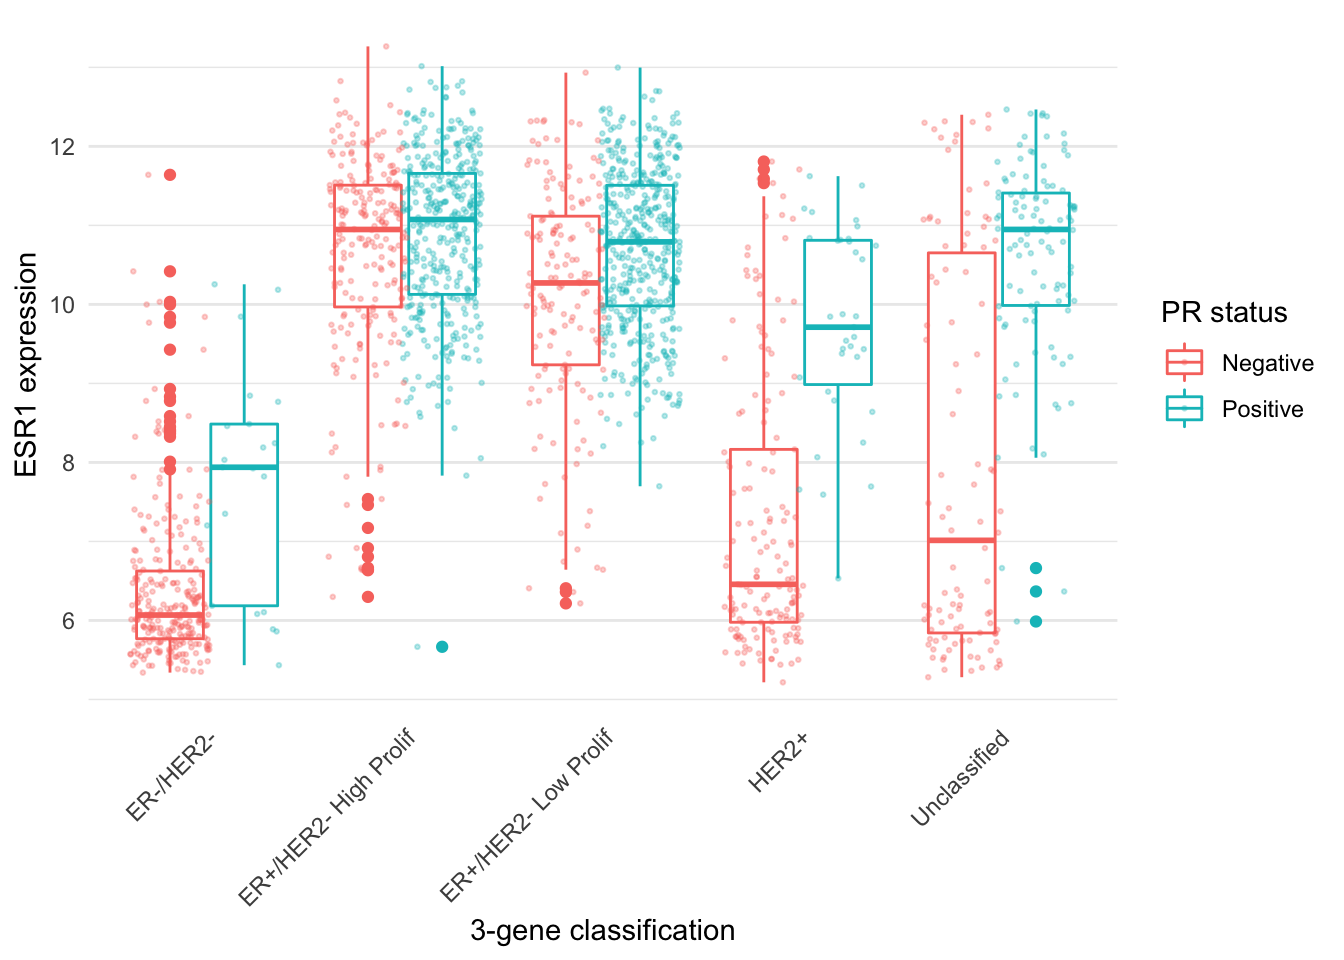
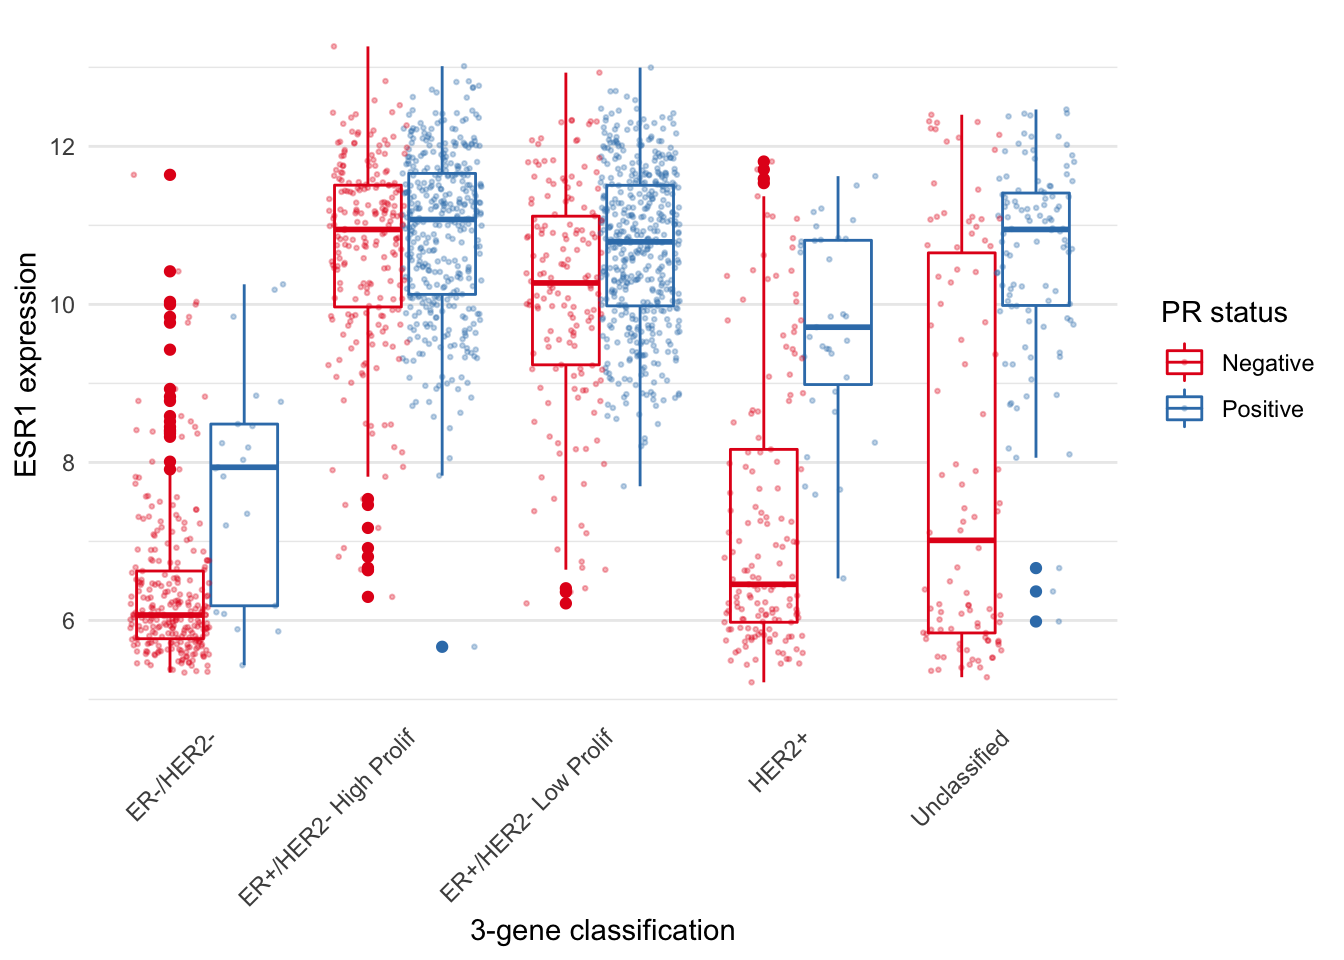
Change colour scheme used in final two plots.

diff --git a/docs/week6.html b/docs/week6.html
@@ -1089,6 +1089,7 @@ metabric %&gt;%
   geom_boxplot() +
   geom_point(position = &quot;jitter&quot;, size = 0.5, alpha = 0.3) +
   labs(x = &quot;3-gene classification&quot;, y = &quot;ESR1 expression&quot;, colour = &quot;PR status&quot;) +
+  scale_color_brewer(palette = &quot;Set1&quot;) +
   theme_minimal() +
   theme(
     panel.grid.major.x = element_blank(),
@@ -1102,6 +1103,7 @@ metabric %&gt;%
   geom_boxplot() +
   geom_point(position = position_jitterdodge(), size = 0.5, alpha = 0.3) +
   labs(x = &quot;3-gene classification&quot;, y = &quot;ESR1 expression&quot;, colour = &quot;PR status&quot;) +
+  scale_color_brewer(palette = &quot;Set1&quot;) +
   theme_minimal() +
   theme(
     panel.grid.major.x = element_blank(),
